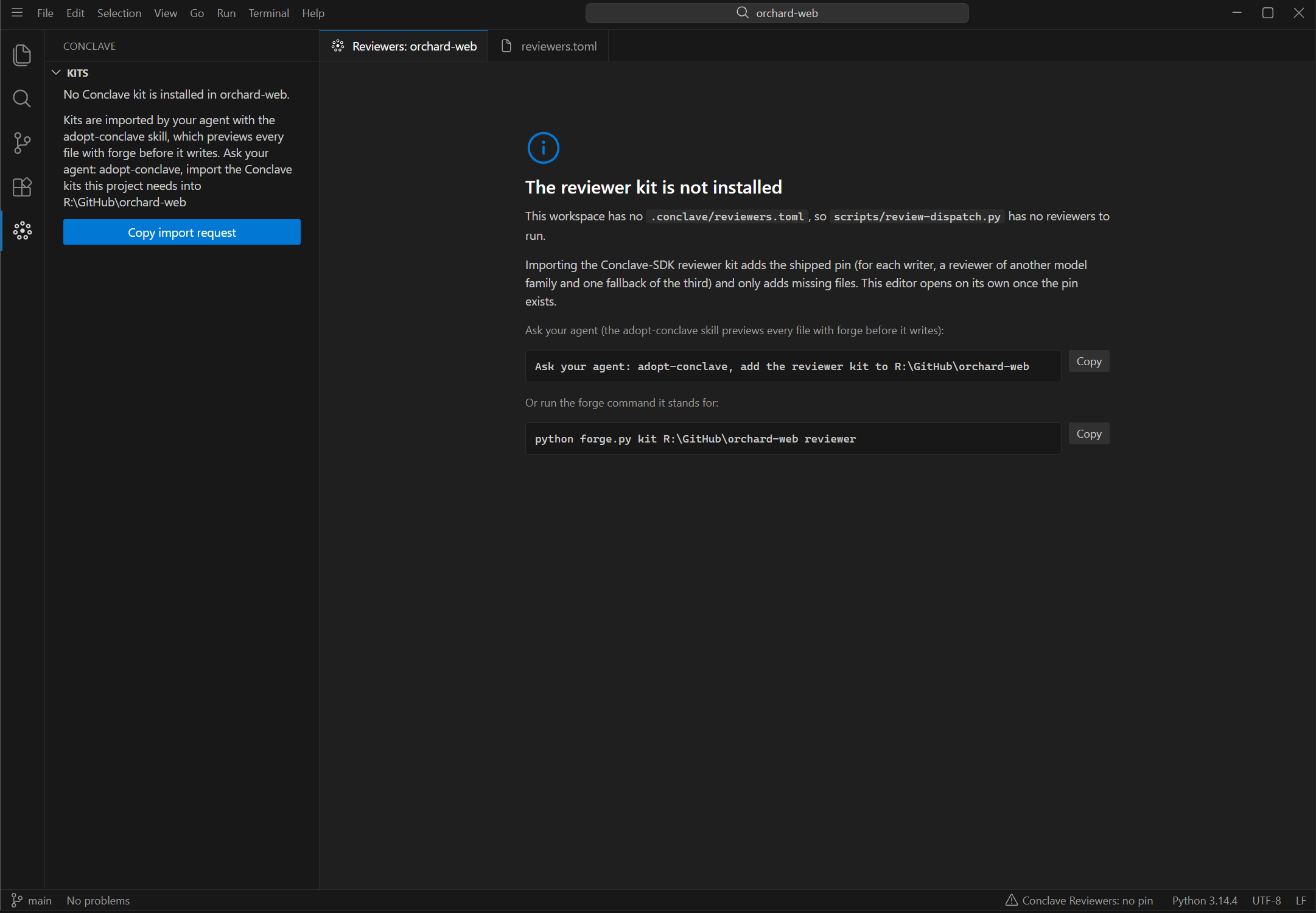
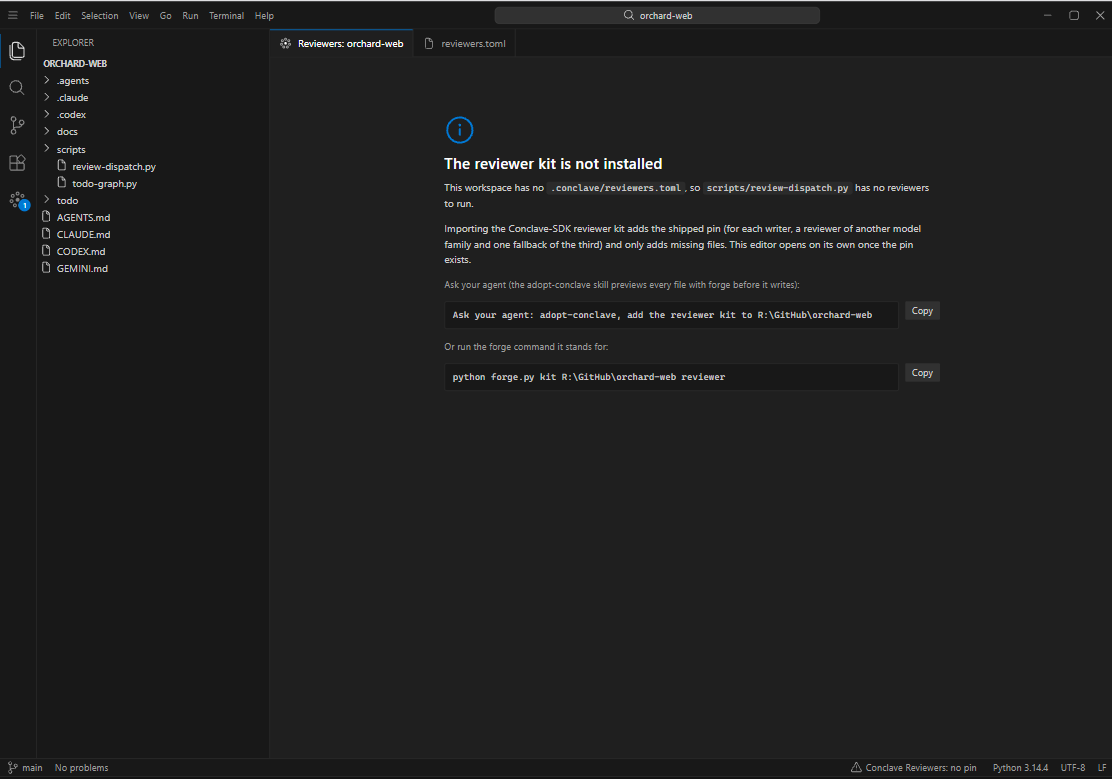
design: screen 7 captured from the no-pin artboard (D00 T01 §7 round 1)

diff --git a/docs/reviews/00-design/D00-T01-s7.md b/docs/reviews/00-design/D00-T01-s7.md
@@ -10,3 +10,33 @@
 - Published as canvas version 30 (`1792530805-ecb0`) onto the live version `1792529532-2a70`, whose own files matched the repository byte for byte. Screenshots 7, 9 and 12 recaptured and 13 and 14 added, in both themes, from the published canvas; each board's theme was set back after its light capture.
 - Did it break anything: the reviewer editor is unchanged (its scenarios render as before); the §7 checkpoint exits 0 and exits 1 on `fb5e468`.
 - Choices taken (defaults where the owner named the rule): the Reviewers section's no-dispatcher rows copy the update request (as the editor screens do), kit rows keep Health as their only inline action with the copy actions in the context menu, and the agent request is worded "Ask your agent: adopt-conclave, ...".
+
+## Round 1: astra (`gpt-6-astra` via `codex`)
+
+- Writer: claude
+- Run: 2026-10-20T21:27:08Z
+- Effort: medium
+- Lines: 15
+- Digest: 9f78f698cb393bbc
+
+### source-defect: approve
+
+### consistency: needs-attention
+
+1. **The empty-folder command is not equivalent to its agent request.** [Main.dc.html:870](/mnt/r/GitHub/Conclave-SDK/design/mockup/project/Main.dc.html:870) pairs “import the Conclave kits this project needs” with bare `python forge.py init <folder>`. Forge installs only base unless additional kits are specified ([forge.py:639](/mnt/r/GitHub/Conclave-SDK/forge.py:639)). Reproduce: open `KitsEmpty`, click **Copy import request**, and inspect the simulated clipboard payload. Following its command cannot install reviewer, todo or another needed kit. Either identify it as base-only bootstrap or omit the claimed equivalent command until kits are selected.
+
+### adversarial: needs-attention
+
+2. **The empty-folder artboard can show a valid reviewer editor despite containing no pin or dispatcher.** [Main.dc.html:1313](/mnt/r/GitHub/Conclave-SDK/design/mockup/project/Main.dc.html:1313) forces the folder’s files to remain empty independently of the scenario. Reproduce: open `KitsEmpty`, then select the ready/shipped-pin scenario. The sidebar still says “No Conclave kit is installed”, while the editor opens and the status says “the pin is valid”. Confirmed by executing `renderVals()` and its scenario handler in memory. These states need a shared fixture or an explicitly constrained scenario selector.
+
+### record: needs-attention
+
+3. **Screenshot 7 does not depict its corresponding no-pin artboard.** The capture recorded at [D00-T01-s7.md:10](/mnt/r/GitHub/Conclave-SDK/docs/reviews/00-design/D00-T01-s7.md:10) shows the empty-folder welcome in [7-dark.png](/mnt/r/GitHub/Conclave-SDK/design/screens/7-dark.png). However, [NoPin.dc.html:16](/mnt/r/GitHub/Conclave-SDK/design/mockup/project/NoPin.dc.html:16) mounts `scenario="no-pin"` with the default Explorer sidebar; its fixture retains base, todo and the reviewer files other than the pin. Reproduce: compare that artboard’s props and `startFiles()` with screenshot 7. The screenshot instead shows the `KitsEmpty` configuration, so it cannot establish the required screenshot-to-artboard parity.
+
+OVERALL: needs-attention
+
+### Round 1 fixes
+
+1. Fixed in `714f669`: a folder with no kit asks the agent to import the kits the project needs and names no forge command, since `forge.py init <folder>` installs only the base kit and no single command stands for the agent's choice; Copy import request copies the request alone. Republished as canvas version 32 (`1792532841-7b96`).
+2. Fixed in `714f669`: the board with no kit stays in the `no-pin` scenario whatever the control bar asks (`scen()` returns `no-pin` for `sidebar` `kits-empty`), since that folder has no pin or dispatcher. All 5,184 combinations still render with no exception and every binding resolves.
+3. Fixed: `design/screens/7-dark.png` and `7-light.png` are captured again from the `NoPin` artboard (Explorer side bar), 1112 by 779; the empty-folder board stays as screen 14.
